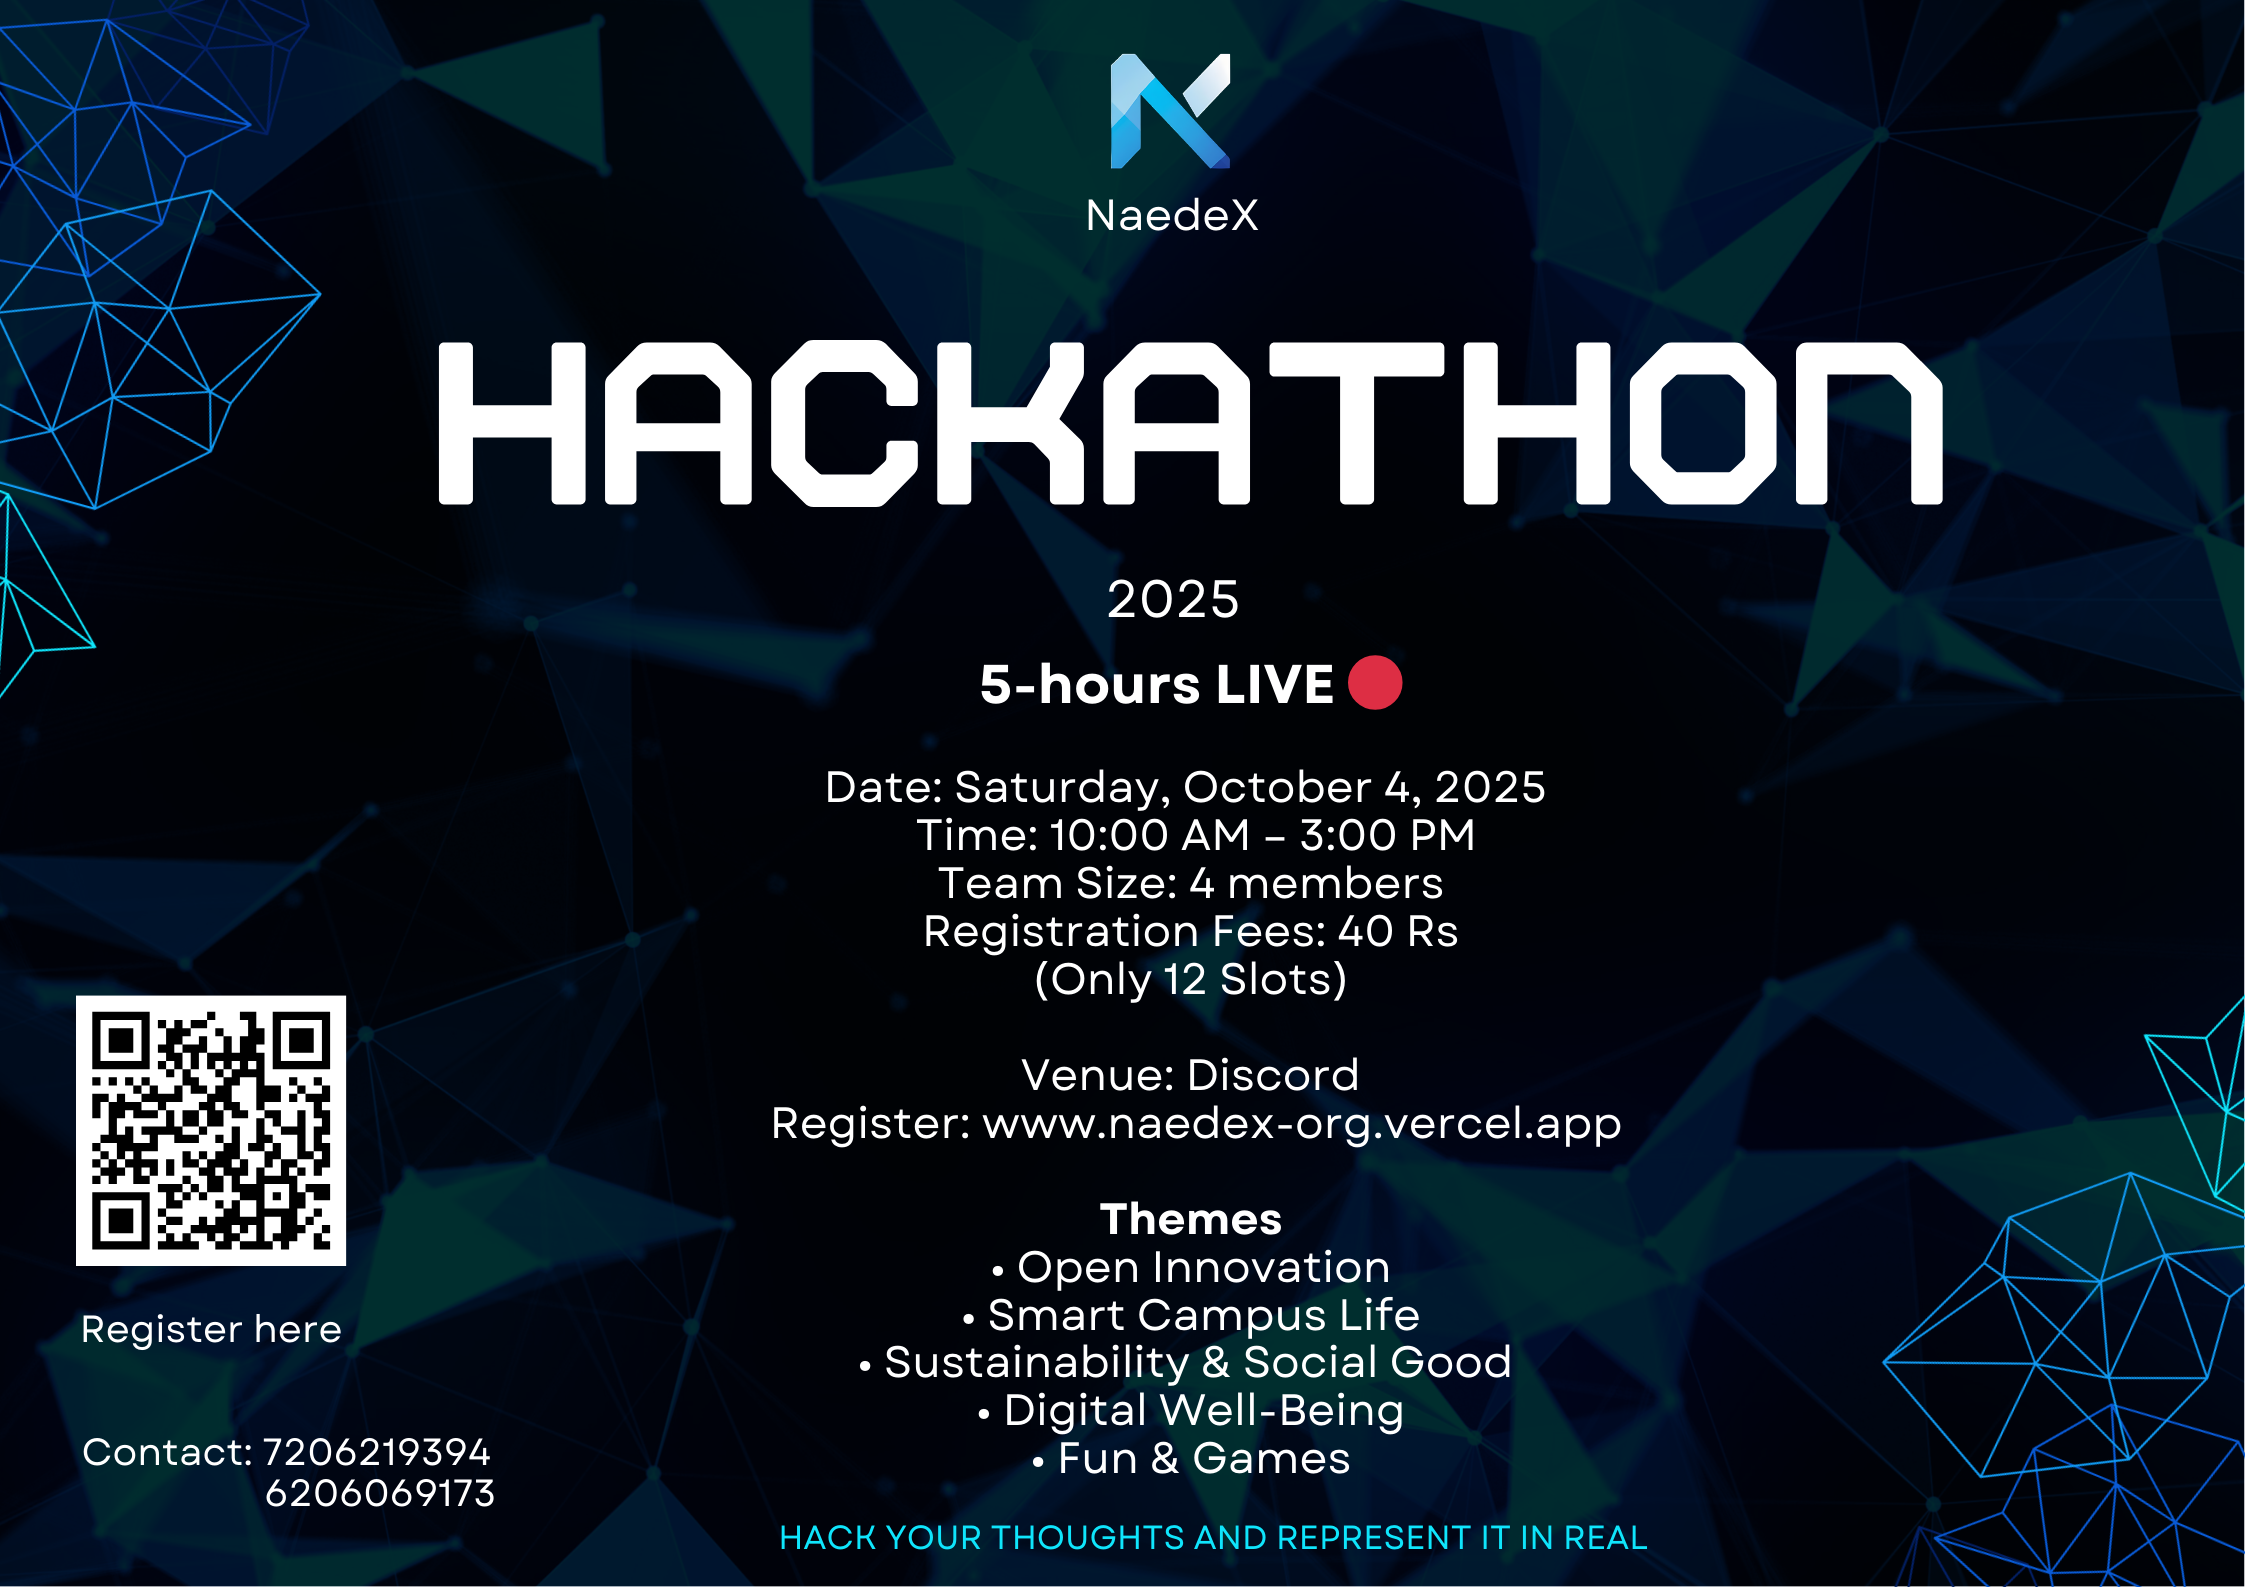
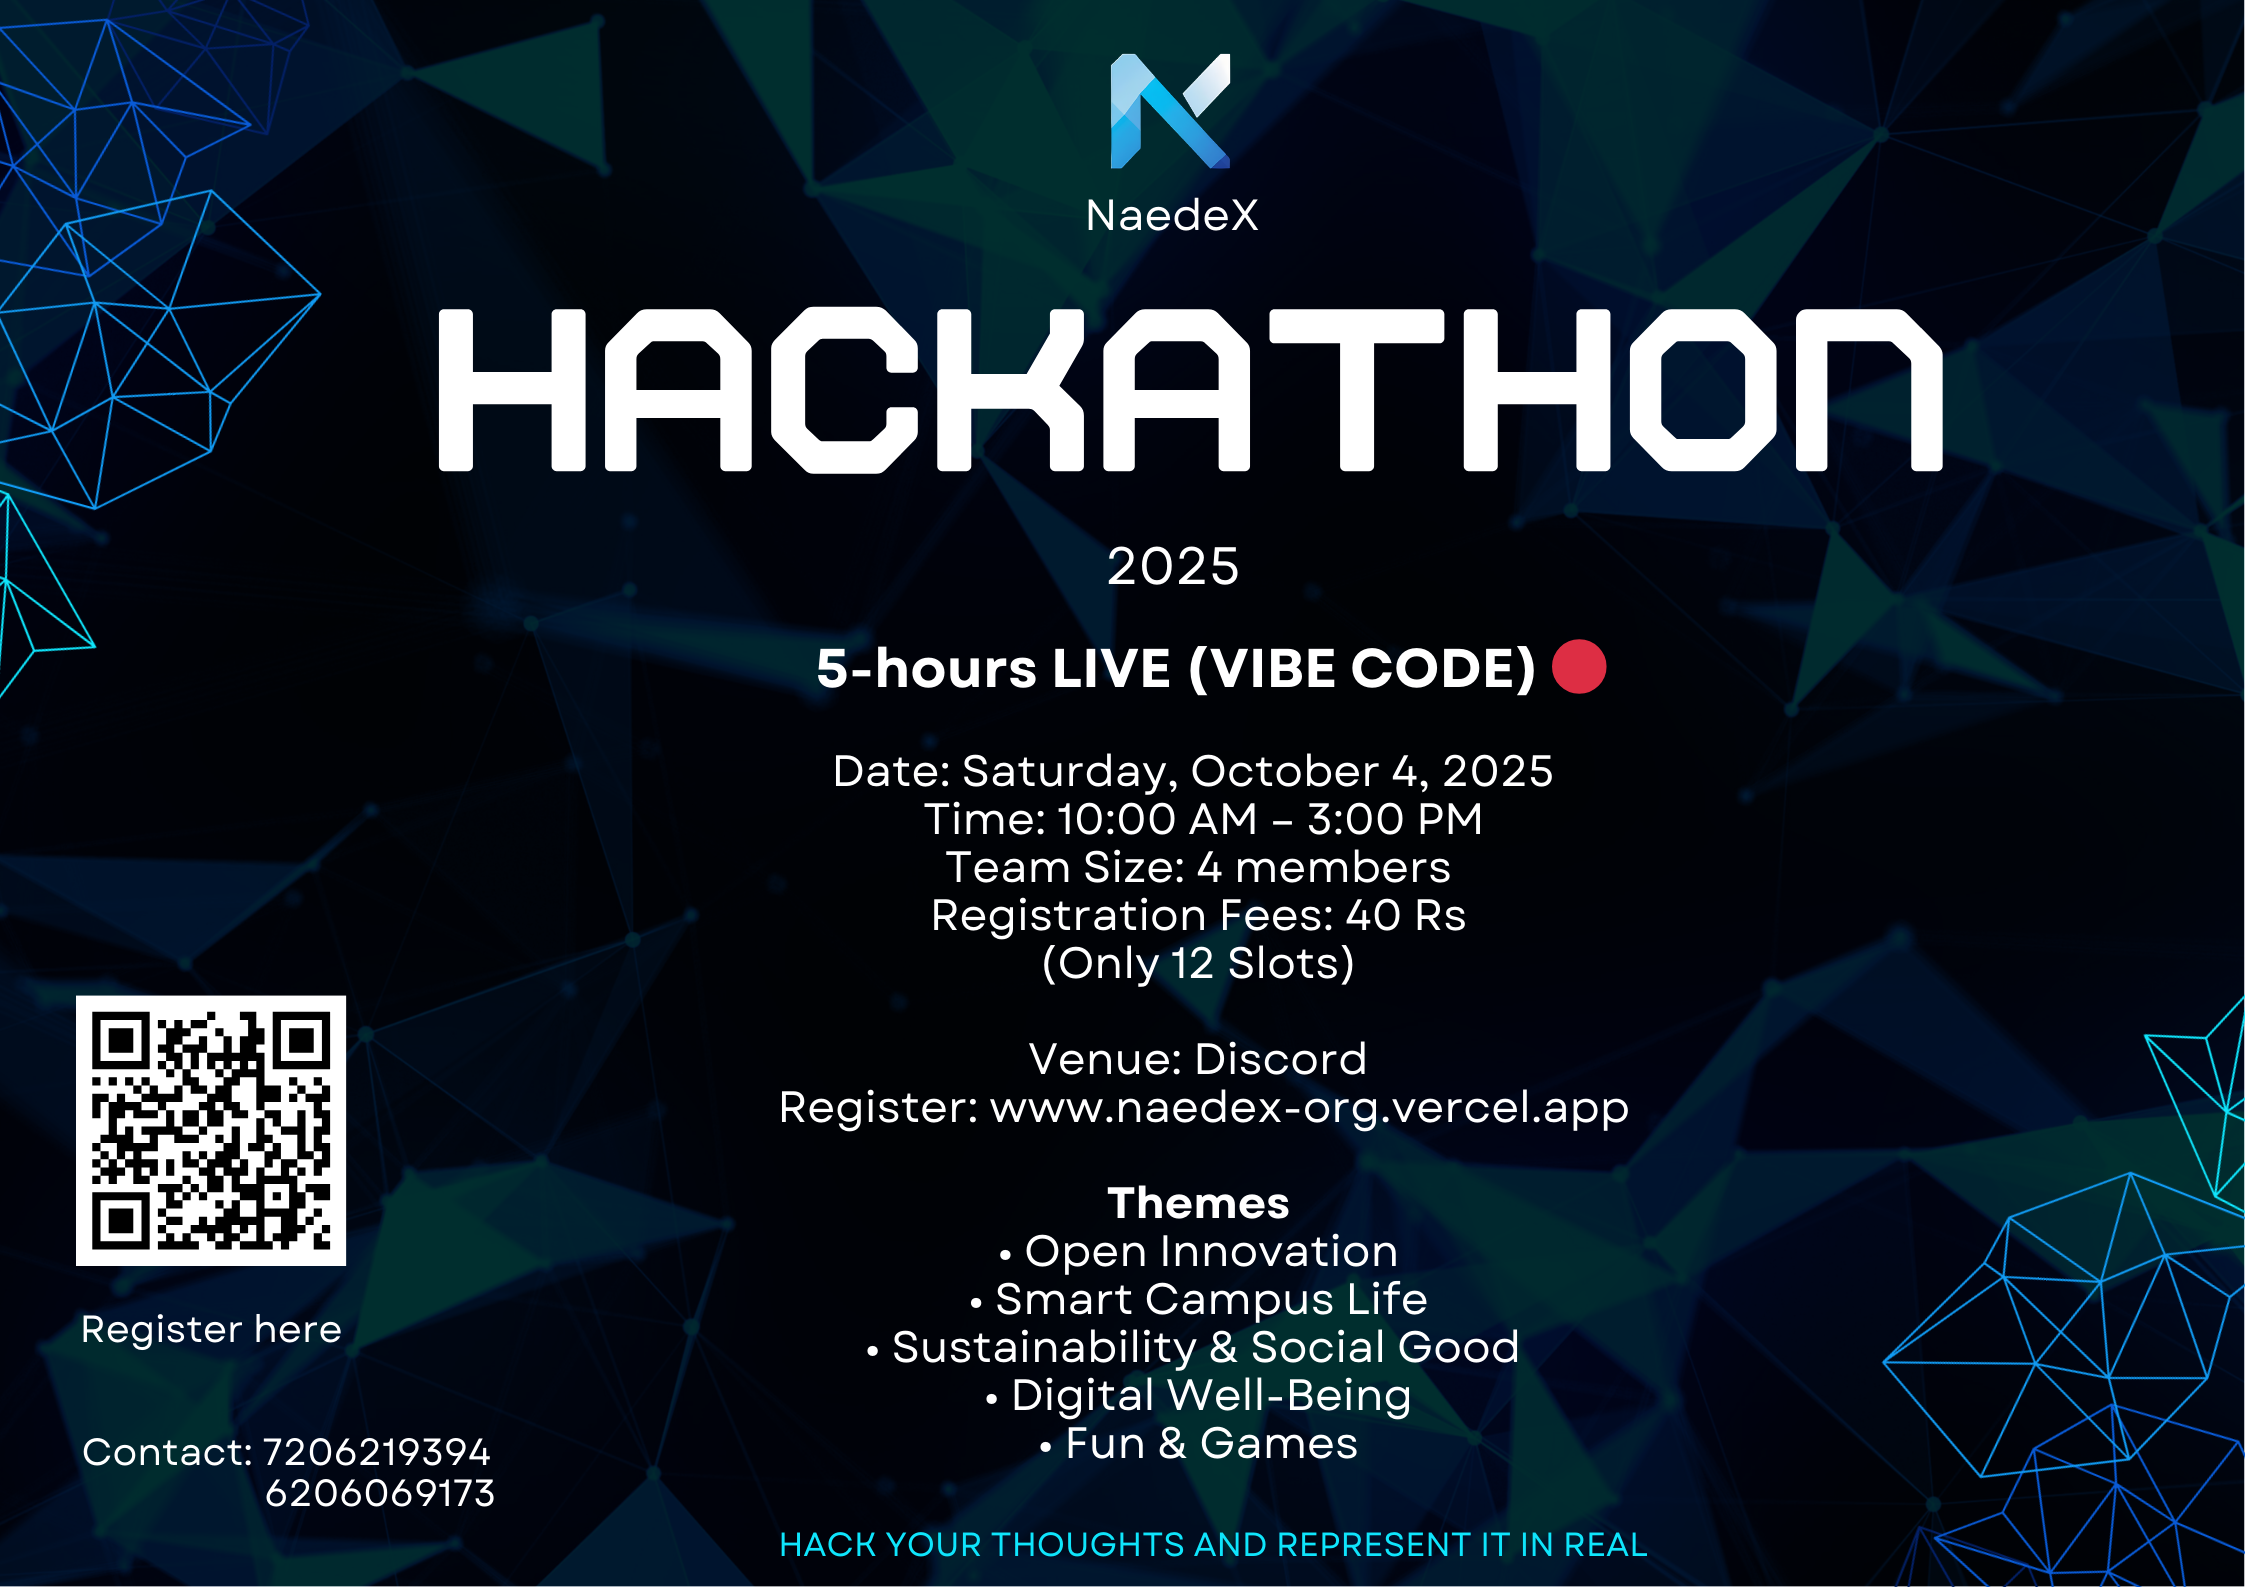
changes

diff --git a/src/components/EventsSection.tsx b/src/components/EventsSection.tsx
@@ -53,7 +53,7 @@ const EventsSection = () => {
               <h1 className="text-2xl md:text-3xl font-bold mb-4">NaedeX Represents</h1>
               <p className="text-lg font-semibold text-tech-graphite leading-relaxed">
                 Innovation and creativity! <br />
-                Join our 5-hour LIVE Hackathon on Oct 4, 2025 (10 AM – 3 PM), right from Discord. Build, innovate, and compete with your team of 4.<br /><br />
+                Join our 5-hour LIVE (VIBE CODE) Hackathon on Oct 4, 2025 (10 AM – 3 PM), right from Discord. Build, innovate, and compete with your team of 4.<br /><br />
 
                 Themes: Open Innovation · Smart Campus · Sustainability · Digital Well-Being · Fun & Games<br /><br />
 
